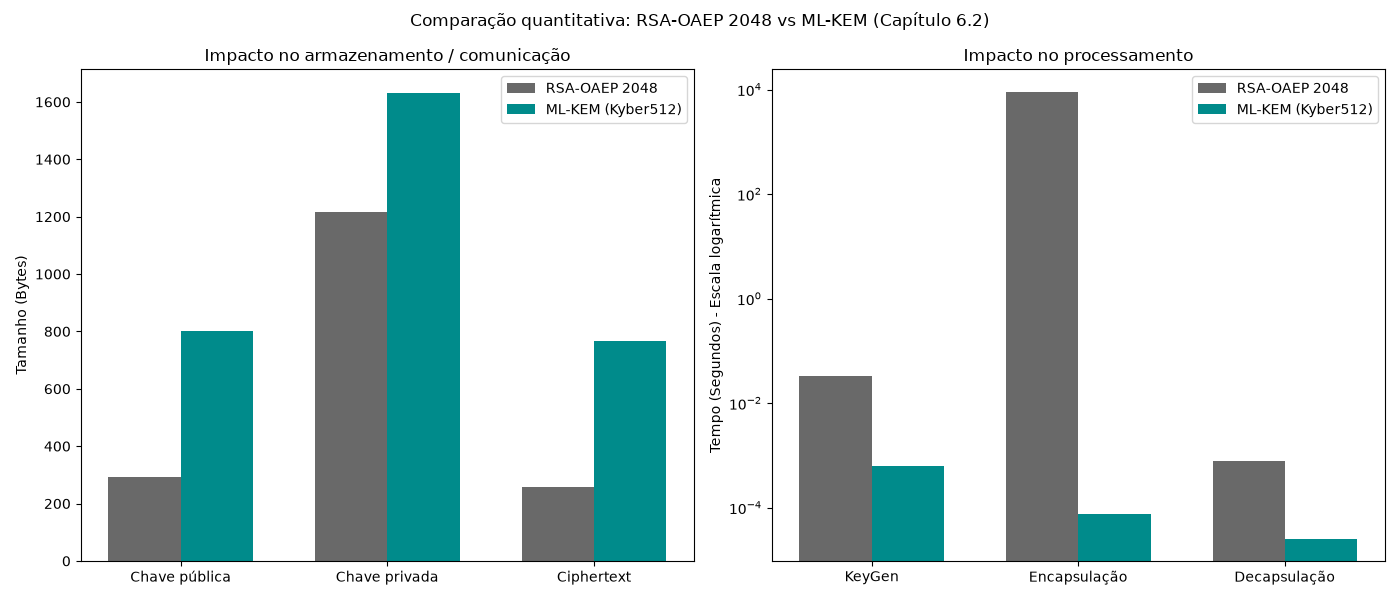
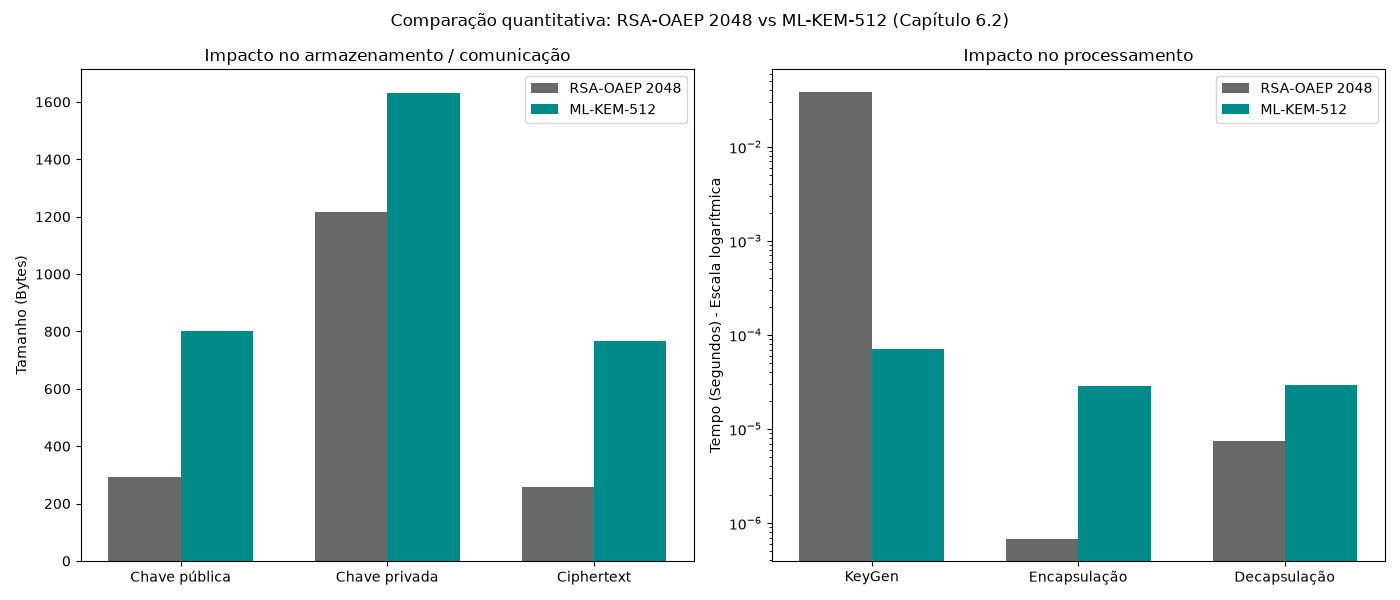
fix: corrige a medição de tempo no encapsulamento, adiciona loop de 100 iterações para médias precisas, atualiza para ML-KEM-512, inclui requirements.txt e as duas plotagens atualizadas

diff --git a/pqc_mlkem_migration.py b/pqc_mlkem_migration.py
@@ -31,22 +31,23 @@ except ImportError:
     print("Instale utilizando: pip install cryptography")
     exit(1)
 
-def benchmark_rsa_2048_oaep():
-    """
-    Realiza o benchmark da solução atual (RSA-2048-OAEP) para extrair
-    metricas reais de tempo e tamanho (Baseline para o capítulo 6).
-    """
-    # KeyGen
-    start = time.perf_counter()
-    private_key = rsa.generate_private_key(public_exponent=65537, key_size=2048)
-    keygen_t = time.perf_counter() - start
+INTERATIONS = 100 # Número de repetições para garantir média precisa
 
-    public_key = private_key.public_key()
-    pub_bytes = public_key.public_bytes(
+def benchmark_rsa_2048_oaep(iterations=INTERATIONS):
+    """
+    Realiza o benchmark da solução atual (RSA-2048-OAEP) com multiplas
+    execuçõrs para extrair médias reais de tempo.    
+    """
+    
+    keygen_times, encaps_times, decaps_times = [], [], []
+    
+    # Execução base para extrair tamanhos    
+    private_key_base = rsa.generate_private_key(public_exponent=65537, key_size=2048)
+    pub_bytes = private_key_base.public_key().public_bytes(
         encoding=serialization.Encoding.DER,
         format=serialization.PublicFormat.SubjectPublicKeyInfo
     )
-    priv_bytes = private_key.private_bytes(
+    priv_bytes = private_key_base.private_bytes(
         encoding=serialization.Encoding.DER,
         format=serialization.PrivateFormat.PKCS8,
         encryption_algorithm=serialization.NoEncryption()       
@@ -54,30 +55,37 @@ def benchmark_rsa_2048_oaep():
 
     secret = os.urandom(32) # Segredo com padrão de 256 bits
 
-    # Encaps (Cifragem)
-    start = time.perf_counter()
-    ciphertext = public_key.encrypt(
-        secret,
-        padding.OAEP(mgf=padding.MGF1(algorithm=hashes.SHA256()), algorithm=hashes.SHA256(), label=None)
+    # Loop de repetições para tempos médios
+    for _ in range(iterations):
+        # Encaps (Cifragem)
+        start = time.perf_counter()
+        priv_key = rsa.generate_private_key(public_exponent=65537, key_size=2048)
+        keygen_times.append(time.perf_counter() - start)
+
+        pub_key = priv_key.public_key()
+
+        start = time.perf_counter()
+        ciphertext = pub_key.encrypt(
+            secret, padding.OAEP(mgf=padding.MGF1(algorithm=hashes.SHA256()), algorithm=hashes.SHA256(), label=None)
     )
-    encaps_t = time.perf_counter()
+    encaps_times.append(time.perf_counter() - start) # Correção aplicada
 
     # Decaps (Decifragem)
     start = time.perf_counter()
-    decrypted = private_key.decrypt(
+    decrypted = priv_key.decrypt(    
         ciphertext,
         padding.OAEP(mgf=padding.MGF1(algorithm=hashes.SHA256()), algorithm=hashes.SHA256(), label=None)
     )
-    decaps_t = time.perf_counter() - start
+    decaps_times.append(time.perf_counter() - start)
 
     return{
         "pub_size": len(pub_bytes),
         "priv_size": len(priv_bytes),
         "cipher_size": len(ciphertext),
-        "secret_size": len(secret),
-        "keygen_t": keygen_t,
-        "encaps_t": encaps_t,
-        "decaps_t": decaps_t       
+        "secret_size": len(secret),        
+        "keygen_t": sum(keygen_times) / iterations,              
+        "encaps_t": sum(encaps_times) / iterations,
+        "decaps_t": sum(decaps_times) / iterations        
     }
 
 def executar_mlkem():
@@ -87,77 +95,85 @@ def executar_mlkem():
     """
 
 # Seleciona o algoritmo ML-KEM (Kyber-512 equivalente à segurança do AES-128)
-kem_name = "Kyber512"
+kem_name = "ML-KEM-512"
 
-print("="*82)
+print("="*87)
 print(f"Implementação da alternativa PQC ({kem_name}) - (Cápitulo 5.1)")
-print("="*82)
+print(f"Executando {INTERATIONS} interações para cálculo de médias...")
+print("="*87)
 
 # Inicia o mecanismo KEM do open quantum safe""
 with oqs.KeyEncapsulation(kem_name) as kem:
+   
+    keygen_times, encaps_times, decaps_times = [], [], []
 
-    """
-    Etapa 1 - KeyGen - gera chaves
-    """
-    start_time = time.perf_counter()
-    public_key = kem.generate_keypair()
-    keygen_time = time.perf_counter() - start_time    
+    for i in range(INTERATIONS):
+        """
+        Etapa 1 - KeyGen - gera chaves
+        """
+        start = time.perf_counter()        
+        public_key = kem.generate_keypair()
+        keygen_times.append(time.perf_counter() - start)
 
-    # O segredo privado fica armazenado internamente no objeto 'kem'
-    private_key = kem.export_secret_key()
+        """
+        Etapa 2 - Encaps - operação criptográfica principal
+        O remetente usa a chave pública para gerar um ciphertext
+        e um segredo compartilhado.
+        """
+        start = time.perf_counter()
+        ciphertext, shared_secret_sender = kem.encap_secret(public_key)
+        encaps_times.append(time.perf_counter() - start)
+
+        """
+        Etapa 3 - Decaps - operação inversa / desencapsulamento
+        O destinatário usa sua chave privada para extrair o segredo do ciphertext.
+        """
+        start = time.perf_counter()
+        shared_secret_receiver = kem.decap_secret(ciphertext)
+        decaps_times.append(time.perf_counter() - start)
+
+        # Verificação apenas na última iteração para exibir  no terminal
+        if i == INTERATIONS -1:
+            # O segredo privado fica armazenado internamente no objeto 'kem'
+            private_key = kem.export_secret_key()
+            valido = (shared_secret_sender == shared_secret_receiver)
+
+    avg_keygen = sum(keygen_times) / INTERATIONS
+    avg_encaps = sum(encaps_times) / INTERATIONS
+    avg_decaps = sum(decaps_times) / INTERATIONS
     
     print("\n[1] KeyGen - Geração de chaves concluída:")
-    print(f"    - Tempo de geração: {keygen_time:.6f} segundos")
+    print(f"    - Tempo médio de geração: {avg_keygen:.6f} segundos")    
     print(f"    - Tamanho da chave pública: {len(public_key)} bytes")
     print(f"    - Tamanho da chave privada: {len(private_key)} bytes")   
-
-    """
-    Etapa 2 - Encaps - operação criptográfica principal
-
-    O remetente usa a chave pública para gerar um ciphertext
-    e um segredo compartilhado.
-    """
-    start_time = time.perf_counter()
-    ciphertext, shared_secret_sender = kem.encap_secret(public_key)
-    encaps_time = time.perf_counter() - start_time
     
     print("\n[2] Encaps - Encapsulamento da chave (remetente):")
-    print(f"    - Tempo de encapsulamento: {encaps_time:.6f} segundos")
+    print(f"    - Tempo de médio de encapsulamento: {avg_encaps:.6f} segundos")
     print(f"    - Tamanho do ciphertext: {len(ciphertext)} bytes")
     print(f"    - Tamanho do segredo compartilhado: {len(shared_secret_sender)} bytes")
-
-    """
-    Etapa 3 - Decaps - operação inversa / desencapsulamento
-
-    O destinatário usa sua chave privada para extrair o segredo do ciphertext.
-    """
-    start_time = time.perf_counter()
-    shared_secret_receiver = kem.decap_secret(ciphertext)
-    decaps_time = time.perf_counter() - start_time
-    
+  
     print("\n[3] Decaps - Desencapsulamento da chave (destinatário):")
-    print(f"    - Tempo de desencapsulamento: {decaps_time:.6f} segundos")
+    print(f"    - Tempo médio de desencapsulamento: {avg_decaps:.6f} segundos")
 
     """
     Etapa final - verificação
     """
-    print("\n" + "-"*82)
+    print("\n" + "-"*87)
     print("Verificação de integridade:")
-    if shared_secret_sender == shared_secret_receiver:
-        print("[✔] SUCESSO! ML-KEM KeyGen -> Encaps -> Decaps validados.")
-    #    print(f"\n    Segredo (Hex): {shared_secret_sender.hex()[:32]}...")
+    if valido:
+        print(f"[✔] SUCESSO! {kem_name} KeyGen -> Encaps -> Decaps validados.")    
     else:
-        print("[✖] FALHA na verificação do ML-KEM.")
-    print("-"*82)
+        print(f"[✖] FALHA na verificação do {kem_name}.")
+    print("-"*87)
     
     pqc_metrics = {
         "pub_size": len(public_key),
         "priv_size": len(private_key),
         "cipher_size": len(ciphertext),
         "secret_size": len(shared_secret_sender),
-        "keygen_t": keygen_time,
-        "encaps_t": encaps_time,
-        "decaps_t": decaps_time
+        "keygen_t": avg_keygen,
+        "encaps_t": avg_encaps,
+        "decaps_t": avg_decaps
     }    
 
 """
@@ -168,11 +184,11 @@ rsa_metrics = benchmark_rsa_2048_oaep()
 def calc_delta(vpqc, vatual):
     return ((vpqc - vatual) / vatual) * 100
 
-print("\n" + "="*82)
+print("\n" + "="*87)
 print("Comparação quantitativa (Tabela 2, capítulo 6.2)")
-print("="*82)
-print(f"{'Métrica':<30} | {'RSA-OAEP 2048':<15} | {'ML-KEM (Kyber)':<15} | {'Diferença (%)':<10}")
-print("-" * 82)
+print("="*87)
+print(f"{'Métrica':<30} | {'RSA-OAEP 2048':<15} | {kem_name:<15} | {'Diferença (%)':<10}")
+print("-" * 87)
 
 metrics_map = [
     ("Chave pública (Bytes)", "pub_size", False),
@@ -194,34 +210,11 @@ for label, key, is_float in metrics_map:
         print(f"{label:<30} | {v_rsa:<15} | {v_pqc:<15} | {delta:>+8.2f}%")
 
 """
-Preparação: Avaliação da migração pós-quântica (Capítulo 7)
-"""
-print("\n" + "="*82)
-print("Insights de preparação da migração PQC (Capítulo 7)")
-print("="*82)
-
-print("[1] Armazenamento:")
-d_pub = calc_delta(pqc_metrics['pub_size'], rsa_metrics['pub_size'])
-print(f"    - Chaves públicas sofrerão um impacto de {d_pub:+.2f}%.")
-print("    - (Preparar exemplo numérico para 1 milhão de certificados).")
-
-print("\n[2] Comunicação:")
-d_ciph = calc_delta(pqc_metrics['cipher_size'], rsa_metrics['cipher_size'])
-print(f"    - Os ciphertexts/encapsulamentos sofrerão um impacto de {d_ciph:+.2f}%.")
-print("    - (Preparar cenário quantitativo para o volume de dados transmitidos).")
-    
-print("\n[3] Processamento:")
-d_kg = calc_delta(pqc_metrics['keygen_t'], rsa_metrics['keygen_t'])
-print(f"    - Velocidade de geração de chaves: {d_kg:+.2f}%.")
-print("    - ML-KEM costuma ser drasticamente mais rápido que o RSA clássico.")
-print("="*82)
-
-"""
 Avaliação da migração pós-quântica (Capítulo 7)
 """
-print("\n" + "-"*82)
-print("Avaliação da migração PQC")
-print("-"*82)
+print("\n" + "-"*87)
+print("Avaliação da migração PQC (Capítulo 7)")
+print("-"*87)
 
 # Simulação de cenário: 1.000.000 de operações
 operacoes = 1_000_000
@@ -255,9 +248,9 @@ print(f"         devido ao aumento do ciphertext, mais do que o consumo de CPU e
 """
 Análise Final (Capítulo 8)
 """
-print("\n" + "="*82)
+print("\n" + "="*87)
 print("Análise final (Capítulo 8)")
-print("="*82)
+print("="*87)
 print("Q1. Maior instância comprometida via Shor:")
 print("    R: N=35 (6 bits).")
 
@@ -271,7 +264,7 @@ print("    possui complexidade de tempo polinomial num computador quântico, eli
 print("    segurança exponencial que protege o RSA clássico.")
 
 print("\nQ4. Qual algoritmo PQC substituto e por quê?")
-print("    R: ML-KEM (Kyber). Como o RSA-OAEP atua no estabelecimento de chaves seguras,")
+print("    R: ML-KEM-512. Como o RSA-OAEP atua no estabelecimento de chaves seguras,")
 print("    o substituto deve ser um Key Encapsulation Mechanism (KEM).")
 
 print("\nQ5. Custo quantitativo da migração?")
@@ -286,13 +279,13 @@ print("\nQ7. A simples substituição é suficiente?")
 print("    R: Não. São necessárias alterações arquiteturais como o uso de 'Criptografia")
 print("    Híbrida' (combinando PQC e clássica durante o período de transição) para mitigar")
 print("    ataques do tipo 'Harvest Now, Decrypt Later'.")
-print("="*82)
+print("="*87)
 
 """
-Gráfico de desempenho isolado do ML-KEM (Capítulo 5.1)
+Gráfico de desempenho isolado do ML-KEM-512 (Capítulo 5.1)
 """
 fig_kem, axs_kem = plt.subplots(1, 2, figsize=(12, 5))
-fig_kem.suptitle('Análise de desempenho isolado: ML-KEM (Kyber512) - Capítulo 5.1')
+fig_kem.suptitle(f'Análise de desempenho isolado: {kem_name} - Capítulo 5.1')
 
 # Gráfico 1: Tamanhos (Bytes)
 labels_sizes = ['Chave pública', 'Chave privada', 'Ciphertext']
@@ -318,7 +311,7 @@ print(f"\n[✔] Gráfico de desempenho isolado do PQC salvo como: \n'mlkem_desem
 Geração de gráficos comparativos (Capítulo 6 e 6.2)
 """
 fig, axs = plt.subplots(1,2, figsize=(14, 6))
-fig.suptitle('Comparação quantitativa: RSA-OAEP 2048 vs ML-KEM (Capítulo 6.2)')
+fig.suptitle(f'Comparação quantitativa: RSA-OAEP 2048 vs {kem_name} (Capítulo 6.2)')
 
 width = 0.35
 
@@ -330,7 +323,7 @@ pqc_bytes = [pqc_metrics['pub_size'], pqc_metrics['priv_size'], pqc_metrics['cip
 x_bytes = np.arange(len(labels_bytes))
 
 axs[0].bar(x_bytes - width/2, rsa_bytes, width, label='RSA-OAEP 2048', color='dimgray')
-axs[0].bar(x_bytes + width/2, pqc_bytes, width, label='ML-KEM (Kyber512)', color='darkcyan')
+axs[0].bar(x_bytes + width/2, pqc_bytes, width, label=kem_name, color='darkcyan')
 axs[0].set_ylabel('Tamanho (Bytes)')
 axs[0].set_title('Impacto no armazenamento / comunicação')
 axs[0].set_xticks(x_bytes)
@@ -345,7 +338,7 @@ pqc_time = [pqc_metrics['keygen_t'], pqc_metrics['encaps_t'], pqc_metrics['decap
 x_time = np.arange(len(labels_time))
 
 axs[1].bar(x_time - width/2, rsa_time, width, label='RSA-OAEP 2048', color='dimgray')
-axs[1].bar(x_time + width/2, pqc_time, width, label='ML-KEM (Kyber512)', color='darkcyan')
+axs[1].bar(x_time + width/2, pqc_time, width, label=kem_name, color='darkcyan')
 axs[1].set_ylabel('Tempo (Segundos) - Escala logarítmica')
 axs[1].set_title('Impacto no processamento')
 axs[1].set_xticks(x_time)
